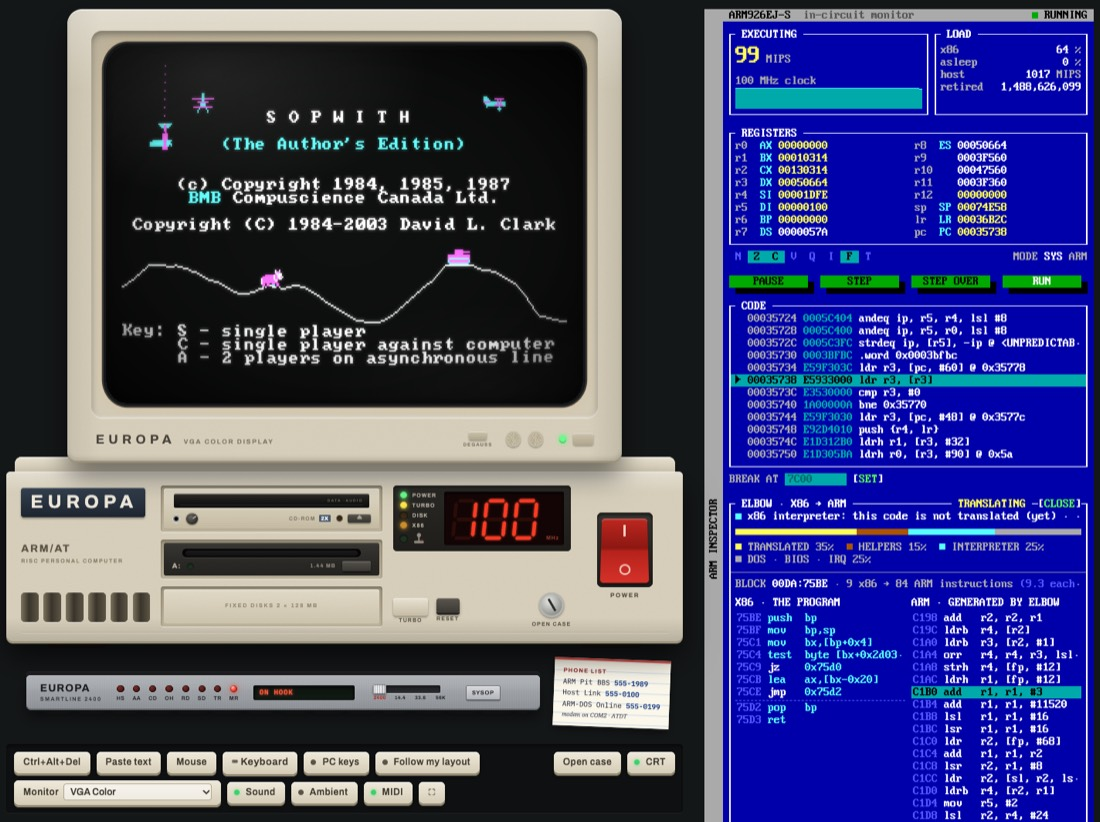
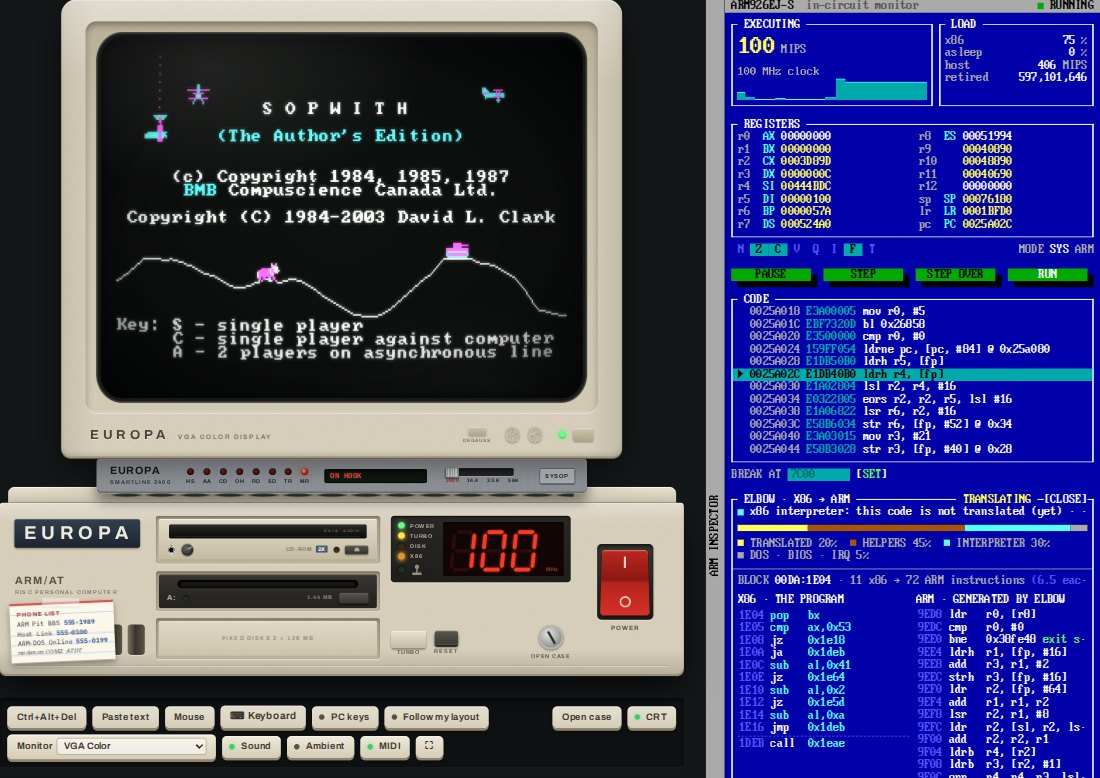
Move the modem to below the monitor to save space

diff --git a/web/css/modem.css b/web/css/modem.css
@@ -1,11 +1,13 @@
-/* The modem's front panel under the system unit (web/js/modem-panel.js, docs/MODEM.md):
-   a Hayes Smartmodem-style box - dark case, brushed aluminium face, red lamps - plus the
-   phone list card, the Host Link prompt and the BBS sysop view. Sizes in cqw (the .rig). */
+/* The modem (web/js/modem-panel.js, docs/MODEM.md): a Hayes Smartmodem-style box - dark case,
+   brushed aluminium face, red lamps - sitting on the system unit with the monitor on top of it;
+   the phone list card taped to the unit's front; the Host Link prompt and the BBS sysop view
+   under the system unit (.modem-extras). Sizes in cqw (the .rig). */
 
-.modem { width: 100cqw; margin: 1.6cqw auto 0; position: relative; display: grid; grid-template-columns: 1fr auto; gap: 1.4cqw 2cqw; align-items: center; }
+/* (the monitor, z-index 3, sits on the modem's dark lid; the modem's feet stand on the case top) */
+.modem { width: 100cqw; margin: .3cqw auto -.9cqw; position: relative; z-index: 2; display: flex; justify-content: center; }
 .modem-box {
   position: relative; display: flex; align-items: center; gap: 2.2cqw;
-  margin-left: 3cqw; padding: 1.1cqw 1.8cqw 1.1cqw 2cqw; border-radius: .5cqw .5cqw .7cqw .7cqw;
+  padding: 1.1cqw 1.8cqw 1.1cqw 2cqw; border-radius: .5cqw .5cqw .7cqw .7cqw;
   background:
     repeating-linear-gradient(90deg, rgba(255,255,255,.035) 0 1px, transparent 1px 3px),
     linear-gradient(180deg, #b9bcc0, #9ea2a7 45%, #8b8f94);
@@ -48,25 +50,38 @@
 .mbtn[aria-pressed="true"] { background: linear-gradient(180deg, #9fa3a7, #c3c6ca); box-shadow: inset 0 .15cqw .3cqw rgba(0,0,0,.35); }
 .mbtn.go { color: #fff; background: linear-gradient(180deg, #d5812b, #a95d17); border-color: #6b3a0c; }
 
-/* an index card taped next to it */
+/* an index card taped to the front of the system unit, under ARM/AT RISC PERSONAL COMPUTER,
+   over most of the vents */
+.badge-area { position: relative; }
 .phone-card {
-  display: flex; flex-direction: column; gap: .2cqw; margin-right: 2cqw; padding: .9cqw 1.3cqw 1cqw; white-space: nowrap;
-  transform: rotate(2.2deg); background: repeating-linear-gradient(180deg, #fbf7ea 0 1.45cqw, #c9d8ea 1.45cqw calc(1.45cqw + 1px)), #fbf7ea;
-  color: #2a2a3a; font: 400 1.05cqw/1.4 var(--mono); box-shadow: 0 .6cqw 1.2cqw rgba(0,0,0,.4);
+  position: absolute; left: -.6cqw; bottom: -.4cqw; z-index: 2;
+  display: flex; flex-direction: column; gap: .1cqw; padding: .7cqw 1cqw .8cqw; white-space: nowrap;
+  transform: rotate(-2.5deg); background: repeating-linear-gradient(180deg, #fbf7ea 0 1.35cqw, #c9d8ea 1.35cqw calc(1.35cqw + 1px)), #fbf7ea;
+  color: #2a2a3a; font: 400 .92cqw/1.4 var(--mono); box-shadow: 0 .5cqw 1cqw rgba(0,0,0,.35);
   border-top: .35cqw solid #d9534f;
+}
+.phone-card::before {   /* a strip of tape */
+  content: ""; position: absolute; left: 32%; right: 32%; top: -.9cqw; height: 1.3cqw;
+  background: rgba(255,255,255,.4); transform: rotate(3deg); box-shadow: 0 1px 2px rgba(0,0,0,.1);
 }
 .phone-card b { font: 700 .85cqw/1.6 var(--sans); letter-spacing: .15em; color: #9b2c28; }
 .phone-card em { font-style: normal; font-weight: 600; color: #1d3f86; }
 .phone-card small { font: italic 400 .9cqw/1.4 var(--serif); color: #595a66; }
 
+.modem-extras { width: 100cqw; margin: 0 auto; display: grid; }
+/* the copy of the phone list card for a unit too narrow for its badge area (armdos.css: the case reflows) */
+.phone-card.spare { display: none; }
+@container (max-width: 560px) {
+  .phone-card.spare { display: flex; position: relative; left: auto; bottom: auto; justify-self: center; margin: 3cqw 0 1cqw; transform: rotate(1deg); }
+}
 .mprompt {
-  grid-column: 1 / -1; display: flex; flex-wrap: wrap; align-items: center; gap: 10px; justify-content: center;
+  margin-top: 1.6cqw; display: flex; flex-wrap: wrap; align-items: center; gap: 10px; justify-content: center;
   padding: 10px 14px; border-radius: 0; background: var(--room-2); color: var(--ink); font: 15px/1.45 var(--serif);
   box-shadow: inset 0 0 0 1px var(--rule);
 }
 .mprompt .mbtn { font-size: 13px; padding: 6px 10px; }
 
-.sysop { grid-column: 1 / -1; justify-self: center; width: min(100%, 560px); padding: 10px 12px 12px; border-radius: 4px; background: #0e1011; box-shadow: 0 10px 24px rgba(0,0,0,.45), inset 0 0 0 1px rgba(255,255,255,.05); }
+.sysop { margin-top: 1.6cqw; justify-self: center; width: min(100%, 560px); padding: 10px 12px 12px; border-radius: 4px; background: #0e1011; box-shadow: 0 10px 24px rgba(0,0,0,.45), inset 0 0 0 1px rgba(255,255,255,.05); }
 .sysop-head { display: flex; justify-content: space-between; align-items: baseline; gap: 10px; margin-bottom: 8px; font: 16px/16px var(--pc); color: var(--c-lgray); }
 .sysop-head b { font-weight: 400; color: var(--c-white); }
 .sysop-screen { background: #000; border-radius: 6px; padding: 8px; box-shadow: inset 0 0 18px rgba(0,0,0,.9); }
@@ -74,14 +89,13 @@
 .sysop-state { margin: 8px 2px 0; font: italic 14px/1.4 var(--serif); color: var(--ink-2); }
 
 @media (max-width: 640px) {
-  .modem { grid-template-columns: 1fr; }
   .modem-box { margin: 0 auto; flex-wrap: wrap; justify-content: center; gap: 12px; padding: 10px; }
   .modem-brand b { font-size: 14px; } .modem-brand span { font-size: 8px; }
   .modem-lamps { gap: 8px; } .modem-lamps label { font-size: 8px; gap: 4px; } .mlamp { width: 9px; height: 9px; }
   .modem-line { font-size: 11px; min-width: 0; }
   .mbtn { font-size: 10px; padding: 6px 8px; }
-  .phone-card { margin: 0 auto; font-size: 12px; transform: rotate(1deg); }
-  .phone-card b { font-size: 9px; } .phone-card small { font-size: 11px; }
+  .phone-card.spare { font-size: 12px; }
+  .phone-card.spare b { font-size: 9px; } .phone-card.spare small { font-size: 11px; }
 }
 
 /* the speed switch: a four-position slide switch set into the aluminium face */

diff --git a/web/js/modem-panel.js b/web/js/modem-panel.js
@@ -1,6 +1,8 @@
 // The modem's front panel (docs/MODEM.md): a Hayes Smartmodem-style strip of lamps
-// (HS AA CD OH RD SD TR MR) with a little line window, placed under the system unit, plus the
-// phone list card, the Host Link prompt and the BBS sysop view. Pure DOM; ModemLine drives it.
+// (HS AA CD OH RD SD TR MR) with a little line window. The modem sits on the system unit with
+// the monitor on top of it; the phone list card is taped to the front of the system unit, under
+// its name; the Host Link prompt and the BBS sysop view go under the system unit. Pure DOM;
+// ModemLine drives it.
 
 import { el } from './util.js';
 
@@ -48,18 +50,27 @@ export class ModemPanel {
         el('div', { class: 'modem-lamps', role: 'group', 'aria-label': 'Modem lamps' }, ...lampEls),
         el('div', { class: 'modem-line', 'aria-live': 'polite' }, this.lineEl),
         this.speedEl,
-        this.sysopBtn),
-      el('div', { class: 'phone-card', 'aria-label': 'Phone list' },
-        el('b', { text: 'PHONE LIST' }),
-        el('span', {}, 'ARM Pit BBS ', el('em', { text: '555-1989' })),
-        el('span', {}, 'Host Link ', el('em', { text: '555-0100' })),
-        el('span', {}, 'ARM-DOS Online ', el('em', { text: '555-0199' })),
-        el('small', { text: 'modem on COM2 · ATDT' })),
-      this.prompt, this.sysop);
+        this.sysopBtn));
+    this.card = el('div', { class: 'phone-card', 'aria-label': 'Phone list' },
+      el('b', { text: 'PHONE LIST' }),
+      el('span', {}, 'ARM Pit BBS ', el('em', { text: '555-1989' })),
+      el('span', {}, 'Host Link ', el('em', { text: '555-0100' })),
+      el('span', {}, 'ARM-DOS Online ', el('em', { text: '555-0199' })),
+      el('small', { text: 'modem on COM2 · ATDT' }));
+    this.extras = el('div', { class: 'modem-extras', id: 'modemExtras' }, this.prompt, this.sysop);
     this.ctx2d = this.canvas.getContext('2d');
     this.imgData = null;
   }
-  mount(after) { after.insertAdjacentElement('afterend', this.root); }
+  /** The modem between the monitor and the system unit, its card on the unit's front, the rest under the unit. */
+  mount({ monitor, unit }) {
+    monitor.insertAdjacentElement('afterend', this.root);
+    unit.querySelector('.badge-area').append(this.card);
+    // (a narrow unit has no badge area: there, a copy of the card lies under it)
+    const spare = this.card.cloneNode(true);
+    spare.classList.add('spare');
+    this.extras.prepend(spare);
+    unit.insertAdjacentElement('afterend', this.extras);
+  }
 
   setSpeed(v) {
     this.speedEl.dataset.speed = String(v);

diff --git a/web/css/armdos.css b/web/css/armdos.css
@@ -89,10 +89,10 @@ button:focus-visible, a:focus-visible, input:focus-visible, summary:focus-visibl
 /* ------------------------------------------------------------------ layout */
 .desk { max-width: 1480px; margin: 18px auto 0; display: grid; grid-template-columns: minmax(0, 1fr) auto; gap: 28px; align-items: start; }
 .rig { container-type: inline-size; width: 100%; max-width: 900px; margin: 0 auto; position: relative; }
-@media (max-width: 1180px) { .desk { grid-template-columns: 1fr; } }
+@media (max-width: 1180px) { .desk { grid-template-columns: minmax(0, 1fr); } }   /* (minmax: the inspector's long lines must not widen the column past the screen) */
 
 /* ------------------------------------------------------------------ monitor */
-.monitor { width: 82cqw; margin: 0 auto; position: relative; z-index: 2; }
+.monitor { width: 82cqw; margin: 0 auto; position: relative; z-index: 3; }
 .monitor .shell {
   position: relative;
   border-radius: 2.2cqw 2.2cqw 1.4cqw 1.4cqw;
@@ -702,6 +702,7 @@ label.mini:has(input:focus-visible) { outline: 2px solid var(--accent); }
   .keys-open .rig > .toolbar { order: 3; }
   .keys-open .rig > .case { order: 4; }
   .keys-open .rig > .modem { order: 5; }
+  .keys-open .rig > .modem-extras { order: 6; }
 }
 
 /* ------------------------------------------------------------------ the app layout (home-screen app, ?app, phones in landscape) */
@@ -712,7 +713,8 @@ html.app body {
   background: #0d0c0a; min-height: 0;
 }
 html.app .masthead, html.app .peripherals, html.app .about, html.app .credits, html.app .case, html.app .toolbar, html.app .postit,
-html.app .monitor .chin, html.app .kbd-hint .kbd-text, html.app .rig > .modem { display: none !important; }
+html.app .monitor .chin, html.app .kbd-hint .kbd-text, html.app .rig > .modem, html.app .rig > .modem-extras,
+html.app .phone-card { display: none !important; }
 html.app .desk { display: block; margin: 0; max-width: none; height: 100%; }
 html.app .rig { max-width: none; height: 100%; display: flex; flex-direction: column; container-type: normal; }
 html.app .appbar {

diff --git a/web/docs/index.html b/web/docs/index.html
@@ -35,7 +35,7 @@
     </div>
   </div>
   <figure>
-    <img src="img/machine.jpg" width="1100" height="822" alt="The ARM-DOS machine drawn as a beige 1988 PC: a colour monitor showing the Sopwith title screen, the system unit with its CD-ROM and floppy drives, a red 100 MHz display and a big red power switch, a modem below, and the blue ARM inspector beside it, drawn like a text-mode debugger of the day, showing registers and x86 code translated into ARM.">
+    <img src="img/machine.jpg" width="1100" height="779" alt="The ARM-DOS machine drawn as a beige 1988 PC: a colour monitor showing the Sopwith title screen, standing on a modem, on the system unit with its CD-ROM and floppy drives, a phone list card taped to its front, a red 100 MHz display and a big red power switch, and the blue ARM inspector beside it, drawn like a text-mode debugger of the day, showing registers and x86 code translated into ARM.">
   </figure>
 </section>
 
@@ -217,7 +217,7 @@ Type DOSSHELL for the ARM-DOS Shell, or HELP for things to try.
 
 <h2 id="modem"><span class="num">9</span>The modem and the phone book</h2>
 
-<p>Below the system unit sits a Hayes-compatible modem on COM2. Its switch sets the speed: <strong>2400</strong>, <strong>14.4</strong>, <strong>33.6</strong> or <strong>56K</strong> bits per second. You hear it dial, ring and shake hands, and at 2400 you can watch each line of text arrive.</p>
+<p>The monitor stands on a Hayes-compatible modem on COM2, and the numbers worth calling are on the card taped to the front of the system unit. The modem's switch sets the speed: <strong>2400</strong>, <strong>14.4</strong>, <strong>33.6</strong> or <strong>56K</strong> bits per second. You hear it dial, ring and shake hands, and at 2400 you can watch each line of text arrive.</p>
 
 <p>The page has its own telephone exchange. Dial with <code>TERM</code> (its dialling directory has every number), with <code>ONLINE</code>, or with Kermit in the ELBOW gallery.</p>
 

diff --git a/web/docs/machine.html b/web/docs/machine.html
@@ -184,7 +184,7 @@
 <p>The <strong>ARM inspector</strong> beside the machine is a real debugger. It shows the registers under their x86 names, disassembles around the program counter, pauses and single-steps, sets breakpoints (which turn the JIT off while they exist), logs every interrupt with its DOS function, and dumps memory. The <strong>memory map</strong> draws all 16 MB as a heat map of execution, reads and writes, with each DOS memory block named after its owner; it costs only a percent or two while open and nothing while closed. The <strong>ELBOW view</strong> is described on the <a href="elbow.html#watch">ELBOW page</a>.</p>
 
 <figure>
-  <img src="img/boot.jpg" width="1100" height="822" alt="The ARM-DOS machine just after booting: the monitor lists HIMEM, the CD-ROM driver and ARM-DOS Version 4.00 messages, and the ARM inspector beside it shows the registers under their x86 names, the flags, a disassembly and a log of INT 21h calls.">
+  <img src="img/boot.jpg" width="1100" height="779" alt="The ARM-DOS machine just after booting: the monitor lists HIMEM, the CD-ROM driver and ARM-DOS Version 4.00 messages, and the ARM inspector beside it shows the registers under their x86 names, the flags, a disassembly and a log of INT 21h calls.">
   <figcaption>Just after boot. The inspector shows the registers under their x86 names and the last few <code>INT 21h</code> calls.</figcaption>
 </figure>
 

diff --git a/web/js/modem-line.js b/web/js/modem-line.js
@@ -7,7 +7,7 @@
 //   const line = new ModemLine({ sound, rom: () => state.rom, images: () => state.images });
 //   new Machine({ ..., ...line.machineOptions() })
 //   line.frame(state.powered ? state.machine : null)          // every animation frame
-//   line.mount($('case'))                                    // the panel goes under the case
+//   line.mount({ monitor: $('monitor'), unit: $('case') })  // the modem under the monitor, on the case
 
 import { PhoneExchange, PortEndpoint } from '../emu/phone.js';
 import { HostLink } from '../emu/hostlink.js';
@@ -43,7 +43,7 @@ export class ModemLine {
     this.linesTimer = setInterval(() => this.lines.tick(performance.now()), 20);
     this.setupOnline();
   }
-  mount(after) { this.panel.mount(after); }
+  mount(where) { this.panel.mount(where); }
   /** The card's speed jumper (web/js/openbox.js): the same as the panel's switch. */
   setSpeed(v) { this.speed = v; prefs.set('modemSpeed', v); this.panel.setSpeed(v); this.machine?.modem.setSwitch(v); }
   /** Is the modem card in the machine? Without it the panel stays dark. */

diff --git a/web/js/main.js b/web/js/main.js
@@ -56,7 +56,7 @@ const mhz = new SevenSeg($('mhzDisplay'));
 const printer = new Printer(sound);
 // COM2 modem: phone line, front panel, BBS worker, Host Link (web/js/modem-line.js)
 const line = new ModemLine({ sound, rom: () => state.rom, images: () => state.images });
-line.mount($('case'));
+line.mount({ monitor: $('monitor'), unit: $('case') });
 state.line = line;
 // the CD-ROM drive in the case and the disc box (web/js/cdrom.js)
 const cd = new CdRom({ sound, machine: () => state.machine });

diff --git a/tools/screenshots.py b/tools/screenshots.py
@@ -1,0 +1,84 @@
+#!/usr/bin/env python3
+"""The pictures of the whole machine in the README and the manual, taken from the staged site
+(./build.sh first): the page at 1440 px wide, the desk (machine and inspector) scaled to 1100 px.
+
+  machine.jpg  Sopwith's title screen under ELBOW, the inspector's ELBOW view open
+               (README.md, web/docs/index.html)
+  boot.jpg     just after booting, at the C:\\> prompt (web/docs/machine.html)
+
+Each goes to docs/screenshots/ and web/docs/img/. The <img> sizes in the pages must match what
+this prints. Needs Python with Playwright (pip install playwright && playwright install chromium).
+
+usage: python3 tools/screenshots.py [machine|boot ...]   (default: both)
+"""
+import os, sys, time
+ROOT = os.path.abspath(os.path.join(os.path.dirname(__file__), '..'))
+sys.path.insert(0, os.path.join(ROOT, 'web', 'tests'))
+import serve
+from playwright.sync_api import sync_playwright
+
+WIDTH, OUT_W = 1440, 1100
+SCREEN = "(() => { const m = armdos.machine; const r = []; for (let y = 0; y < 25; y++) { let s=''; for (let x = 0; x < 80; x++) s += String.fromCharCode(m.cpu.m8[0xB8000 + (y*80+x)*2] || 32); r.push(s.trimEnd()); } return r.join('\\n'); })()"
+PROMPT = f"armdos.machine && armdos.driver?.running && {SCREEN}.trimEnd().endsWith('C:\\\\>')"
+
+def wait_for(page, js, timeout):
+    t = time.time()
+    while time.time() - t < timeout:
+        try:
+            if page.evaluate(js): return True
+        except Exception: pass
+        time.sleep(0.2)
+    raise SystemExit(f'screenshots: timed out waiting for {js[:60]}...')
+
+def boot(page, url):
+    page.goto(url + '?nosw')
+    page.click('#powerBtn')
+    wait_for(page, PROMPT, 90)
+    if page.evaluate("document.getElementById('inspector').classList.contains('closed')"): page.click('#inspTab')
+
+def dos(page, cmd):
+    page.evaluate(f"armdos.machine.typeText({(cmd + chr(13))!r})")
+    time.sleep(0.4 + len(cmd) * 0.06)
+
+def machine(page):
+    dos(page, 'CD \\ELBOW\\APPS\\SOPWITH')
+    dos(page, 'ELBOW SOPWITH')
+    wait_for(page, "armdos.machine.vga.mode === 4 || armdos.machine.vga.mode === 6", 60)   # CGA graphics: the title screen
+    page.click('#ebToggle')
+    wait_for(page, "document.getElementById('ebState').textContent === 'TRANSLATING'", 30)
+    time.sleep(4)                                    # the planes fly, the meters settle
+    # the view shows whichever block the ARM CPU is in: wait for one with a few x86 instructions
+    wait_for(page, "document.querySelectorAll('#ebX86 > *').length >= 6", 60)
+
+def boot_shot(page):
+    time.sleep(3)                                    # the MIPS meter and the interrupt log settle
+
+def shoot(page, name):
+    desk = page.locator('#desk').bounding_box()
+    rig = page.locator('.rig').bounding_box()
+    height = rig['y'] + rig['height'] + 14 - desk['y']      # to just under the toolbar
+    data = page.screenshot(type='jpeg', quality=86, clip={'x': desk['x'], 'y': desk['y'], 'width': desk['width'], 'height': height})
+    for d in ('docs/screenshots', 'web/docs/img'):
+        with open(os.path.join(ROOT, d, name), 'wb') as f: f.write(data)
+    print(f'{name}: {round(desk["width"] * OUT_W / desk["width"])} x {round(height * OUT_W / desk["width"])}, {len(data) // 1024} KB')
+
+def main():
+    want = sys.argv[1:] or ['machine', 'boot']
+    srv, url = serve.start()
+    try:
+        with sync_playwright() as p:
+            b = p.chromium.launch(args=['--use-gl=angle', '--use-angle=swiftshader', '--enable-unsafe-swiftshader'])
+            for name in want:
+                ctx = b.new_context(viewport={'width': WIDTH, 'height': 1400}, device_scale_factor=OUT_W / (WIDTH - 32))
+                # a returning visitor: no "click the screen to type" nudge on the monitor
+                ctx.add_init_script("localStorage.setItem('armdos.prefs', JSON.stringify({ typedOnce: true, seen: true }))")
+                page = ctx.new_page()
+                boot(page, url)
+                {'machine': machine, 'boot': boot_shot}[name](page)
+                shoot(page, name + '.jpg')
+                ctx.close()
+            b.close()
+    finally:
+        srv.shutdown()
+
+main()

diff --git a/web/tests/test_round5.py b/web/tests/test_round5.py
@@ -1,6 +1,6 @@
 #!/usr/bin/env python3
 """Round 5: full-screen mouse capture, the POST floppy seek sound, the visitor's own ISO as
-drive D:, and the new title text.
+drive E:, and the new title text.
 
 usage: python3 web/tests/test_round5.py [--shots DIR]   (needs xorriso)
 """
@@ -82,17 +82,17 @@ def main():
             check('leaving full screen releases the mouse', wait_for(pg, "!document.fullscreenElement && !document.pointerLockElement", 5))
             check('bar hidden outside full screen', pg.evaluate("getComputedStyle(document.getElementById('fsBar')).display === 'none'"))
 
-            # ---- your own ISO as D:
+            # ---- your own ISO as E: (the CD-ROM, after the hard disks C: and D:)
             pg.set_input_files('#cdIsoFile', notiso)
             check('a non-ISO file is refused with a friendly message', wait_for(pg, "document.getElementById('cdStatus').textContent.includes(\"isn't an ISO 9660\")", 5), pg.inner_text('#cdStatus'))
             pg.set_input_files('#cdIsoFile', iso)
             check('ISO goes into the drive', wait_for(pg, "armdos.machine.cdrom.disc && armdos.machine.cdrom.disc.title.includes('mydisc.iso') && !armdos.machine.cdrom.trayOpen", 8), pg.inner_text('#cdStatus'))
             check('status names the disc and its volume', wait_for(pg, "document.getElementById('cdStatus').textContent.includes('MYDISC')", 6), pg.inner_text('#cdStatus'))
-            pg.evaluate("armdos.machine.typeText('DIR D:\\r')")
-            check('DOS lists the ISO on D:', wait_for(pg, f"{SCREEN}.includes('README') && {SCREEN}.includes('DOCS')", 30), pg.evaluate(SCREEN)[-500:])
-            pg.evaluate("armdos.machine.typeText('TYPE D:\\\\README.TXT\\r')")
+            pg.evaluate("armdos.machine.typeText('DIR E:\\r')")
+            check('DOS lists the ISO on E:', wait_for(pg, f"{SCREEN}.includes('README') && {SCREEN}.includes('DOCS')", 30), pg.evaluate(SCREEN)[-500:])
+            pg.evaluate("armdos.machine.typeText('TYPE E:\\\\README.TXT\\r')")
             check('DOS reads a file from the ISO', wait_for(pg, f"{SCREEN}.includes('Hello from a visitor ISO!')", 20), pg.evaluate(SCREEN)[-300:])
-            pg.evaluate("armdos.machine.typeText('COPY D:\\\\DOCS\\\\BIG.BIN NUL\\r')")
+            pg.evaluate("armdos.machine.typeText('COPY E:\\\\DOCS\\\\BIG.BIN NUL\\r')")
             check('a 3 MB file streams from the local file', wait_for(pg, f"/1 File\\(s\\) copied/i.test({SCREEN})", 60), pg.evaluate(SCREEN)[-200:])
             check('the ISO is read lazily (blocks, not the whole file)', pg.evaluate("(() => { for (const s of armdos.cd ? armdos.cd.sources.values() : []) if (s.img) return s.img.blocks.size; return -1; })()") != 0)
             pg.evaluate("window.scrollTo(0, 0)")

diff --git a/web/tests/test_modem.py b/web/tests/test_modem.py
@@ -71,7 +71,11 @@ def main():
                 page.route('**/images.json', lambda r: r.fulfill(status=200, content_type='application/json', body=json.dumps(images)))
             page.goto(url)
             page.wait_for_selector('#modemPanel')
-            check('modem panel under the case', page.evaluate("document.getElementById('case').nextElementSibling.id === 'modemPanel'"))
+            check('the modem sits between the monitor and the case', page.evaluate("document.getElementById('monitor').nextElementSibling.id === 'modemPanel' && document.getElementById('modemPanel').nextElementSibling.id === 'case'"))
+            check('its phone list card is on the front of the case, under the name, clear of the drive bays', page.evaluate("""(() => {
+                const c = document.querySelector('#case .badge-area .phone-card').getBoundingClientRect(), m = document.querySelector('#case .model').getBoundingClientRect(),
+                      b = document.querySelector('#case .bays').getBoundingClientRect(), u = document.getElementById('case').getBoundingClientRect();
+                return c.top >= m.bottom - 4 && c.right <= b.left + 4 && c.left >= u.left && c.bottom <= u.bottom; })()"""))
             check('eight lamps HS AA CD OH RD SD TR MR', page.evaluate("[...document.querySelectorAll('.modem-lamps label span')].map(s => s.textContent).join(' ')") == 'HS AA CD OH RD SD TR MR')
             check('line window says NO POWER', page.evaluate(LINE) == 'NO POWER')
             check('phone list card', '555-1989' in page.evaluate("document.querySelector('.phone-card').textContent"))

diff --git a/web/tests/test_memmap.py b/web/tests/test_memmap.py
@@ -35,10 +35,12 @@ def wait_for(page, js, timeout=15):
 HEAT = "((c, a, b) => { const h = armdos.memmap.heat[c]; let s = 0; for (let i = a; i < b; i++) s += h[i]; return s; })"
 
 def stage():
-    imgs = [p for p in glob.glob(os.path.join(ROOT, 'build', 'doom-test', '*', 'timedemo.img'))]
+    # (apps/doom/tests/run.mjs writes build/doom-test/timedemo.img)
+    find = lambda: glob.glob(os.path.join(ROOT, 'build', 'doom-test', 'timedemo.img')) + glob.glob(os.path.join(ROOT, 'build', 'doom-test', '*', 'timedemo.img'))
+    imgs = find()
     if not imgs:
         subprocess.run(['node', os.path.join(ROOT, 'apps/doom/tests/run.mjs'), 'timedemo'], cwd=ROOT, check=True, stdout=subprocess.DEVNULL)
-        imgs = glob.glob(os.path.join(ROOT, 'build', 'doom-test', '*', 'timedemo.img'))
+        imgs = find()
     os.makedirs(OUT, exist_ok=True)
     shutil.copy(os.path.join(ROOT, 'build', 'rom.bin'), OUT)
     shutil.copy(imgs[0], os.path.join(OUT, 'hd.img'))

diff --git a/apps/online/main.c b/apps/online/main.c
@@ -321,7 +321,7 @@ int main(int argc, char **argv)
         return 1;
     }
     /* the first time: where the modem's speed is set (web/js/modem-panel.js), before the call */
-    const char *note = "Set the speed switch on the modem (below the PC) first: 2400 bps to 56K."; char notebuf[80]; int nattr = 0x17;
+    const char *note = "Set the speed switch on the modem (under the monitor) first: 2400 bps to 56K."; char notebuf[80]; int nattr = 0x17;
     for (;;) {
         char pass[20];
         memset(step_state, 0, sizeof step_state);
